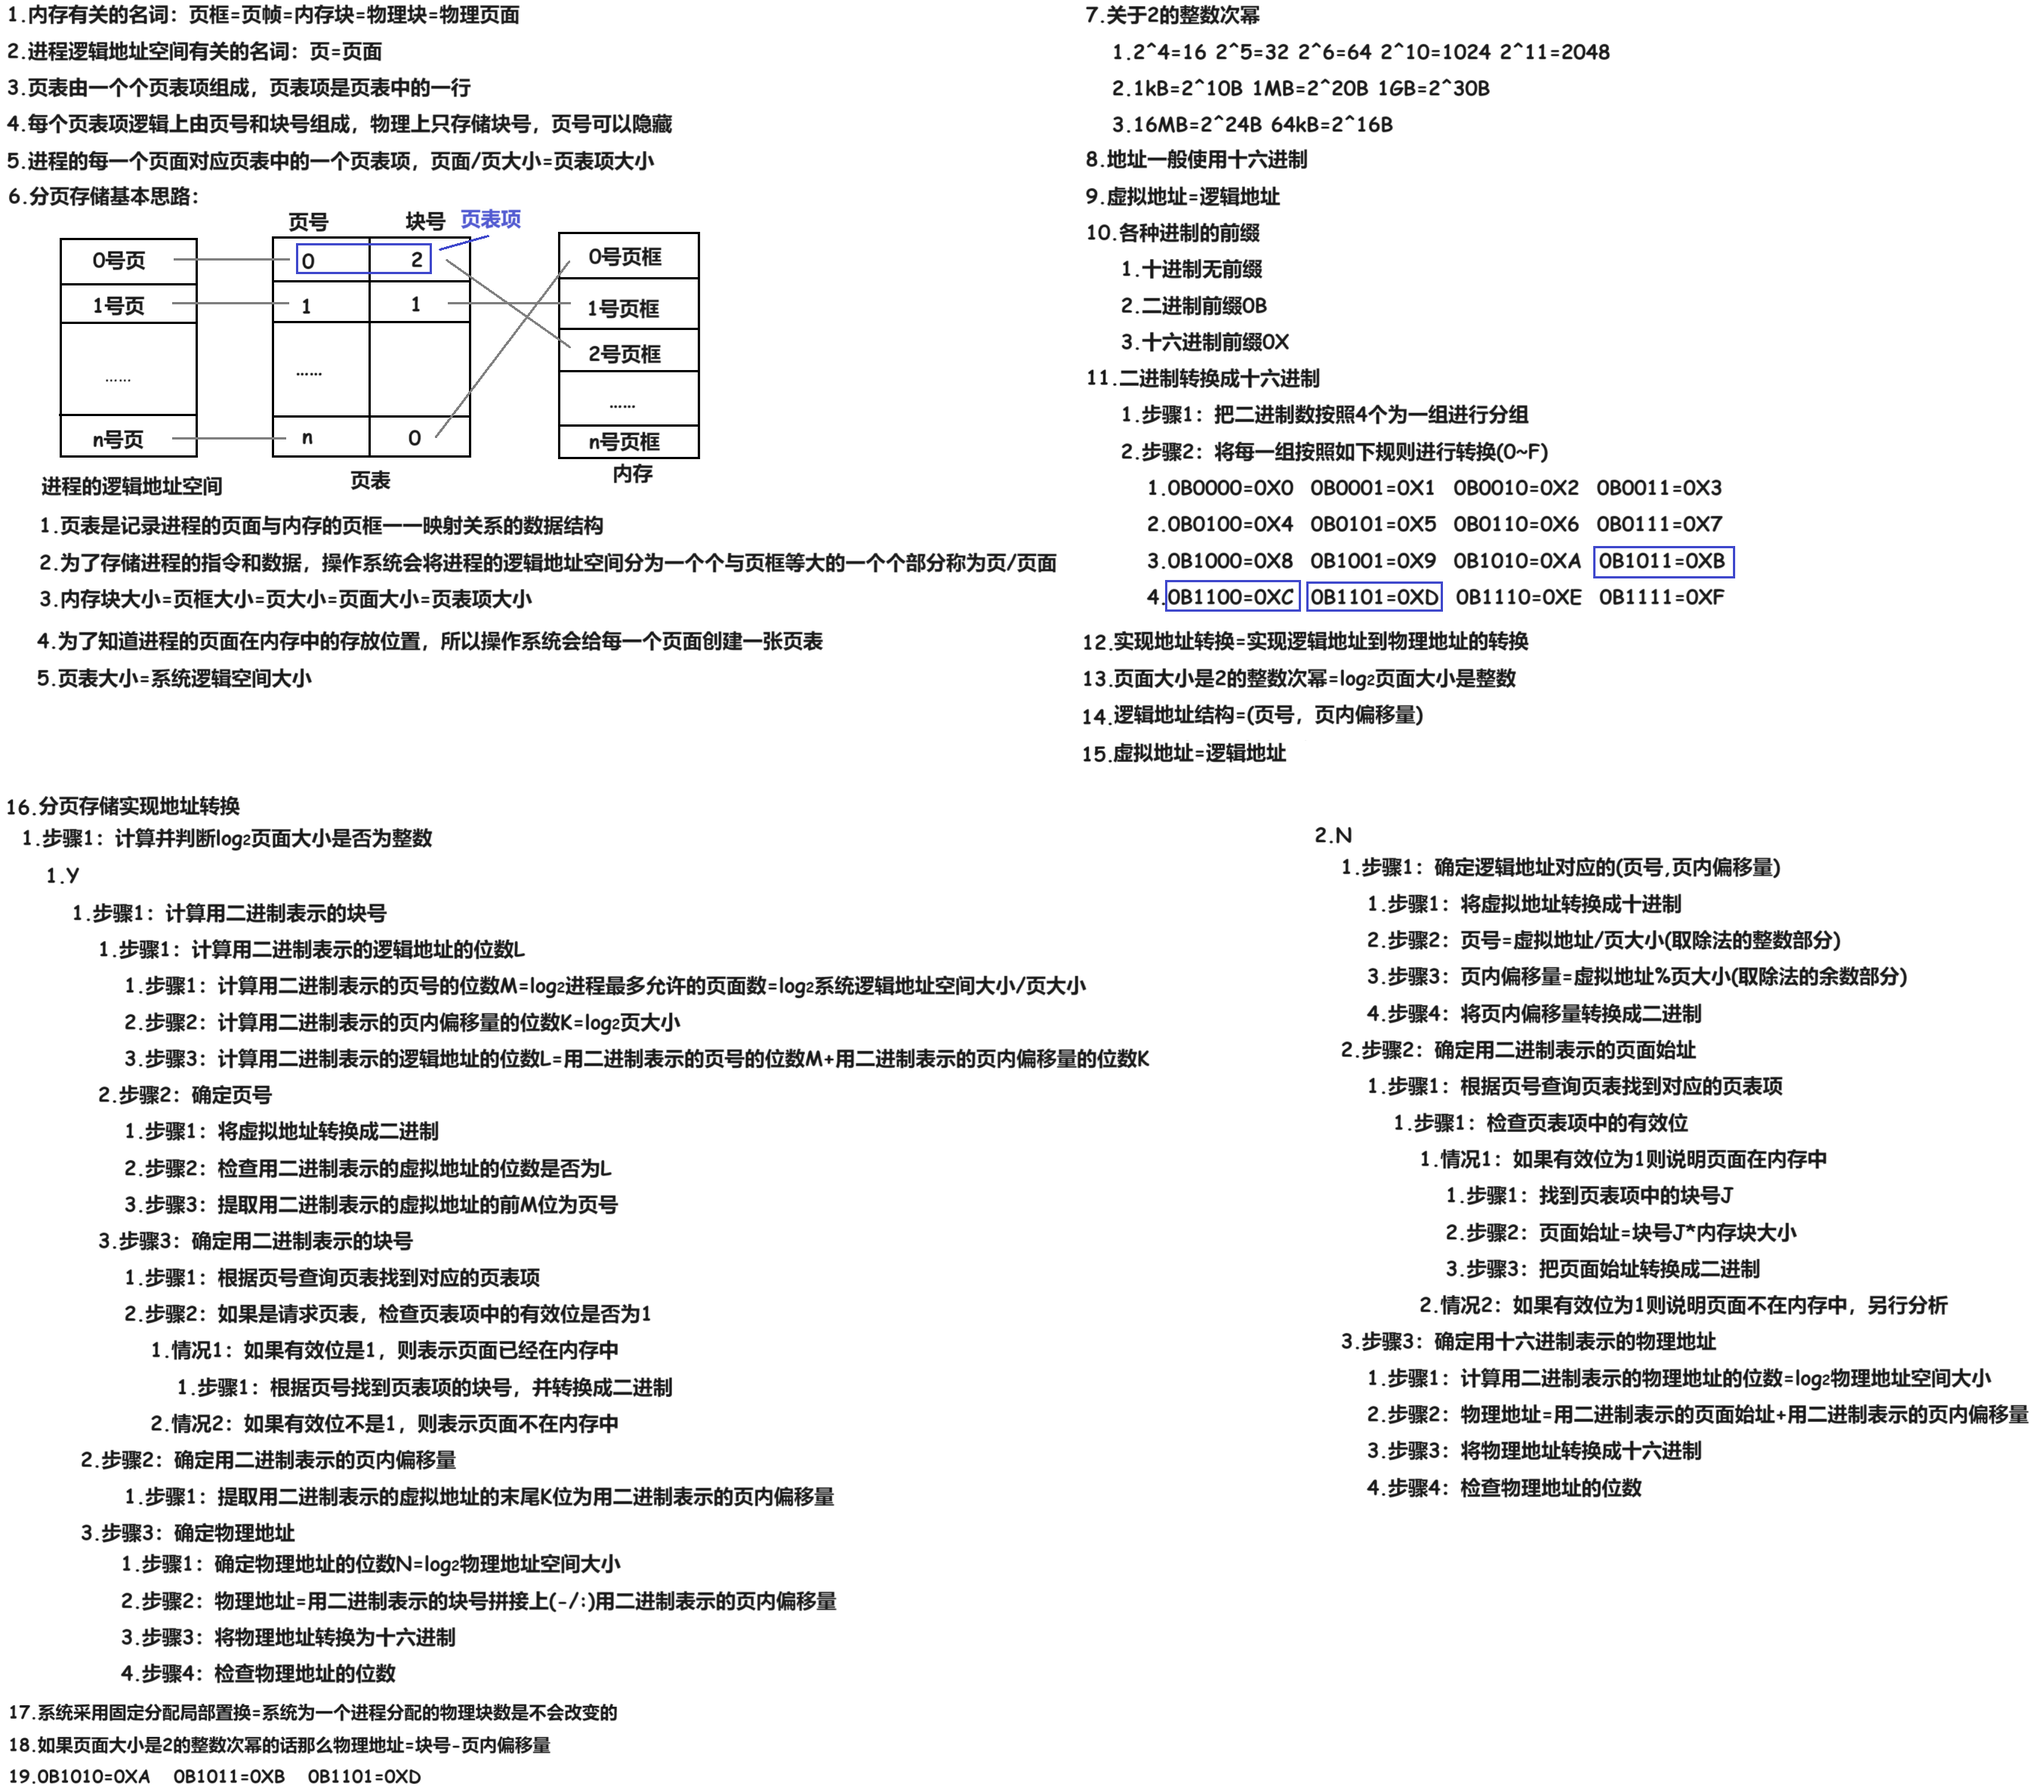
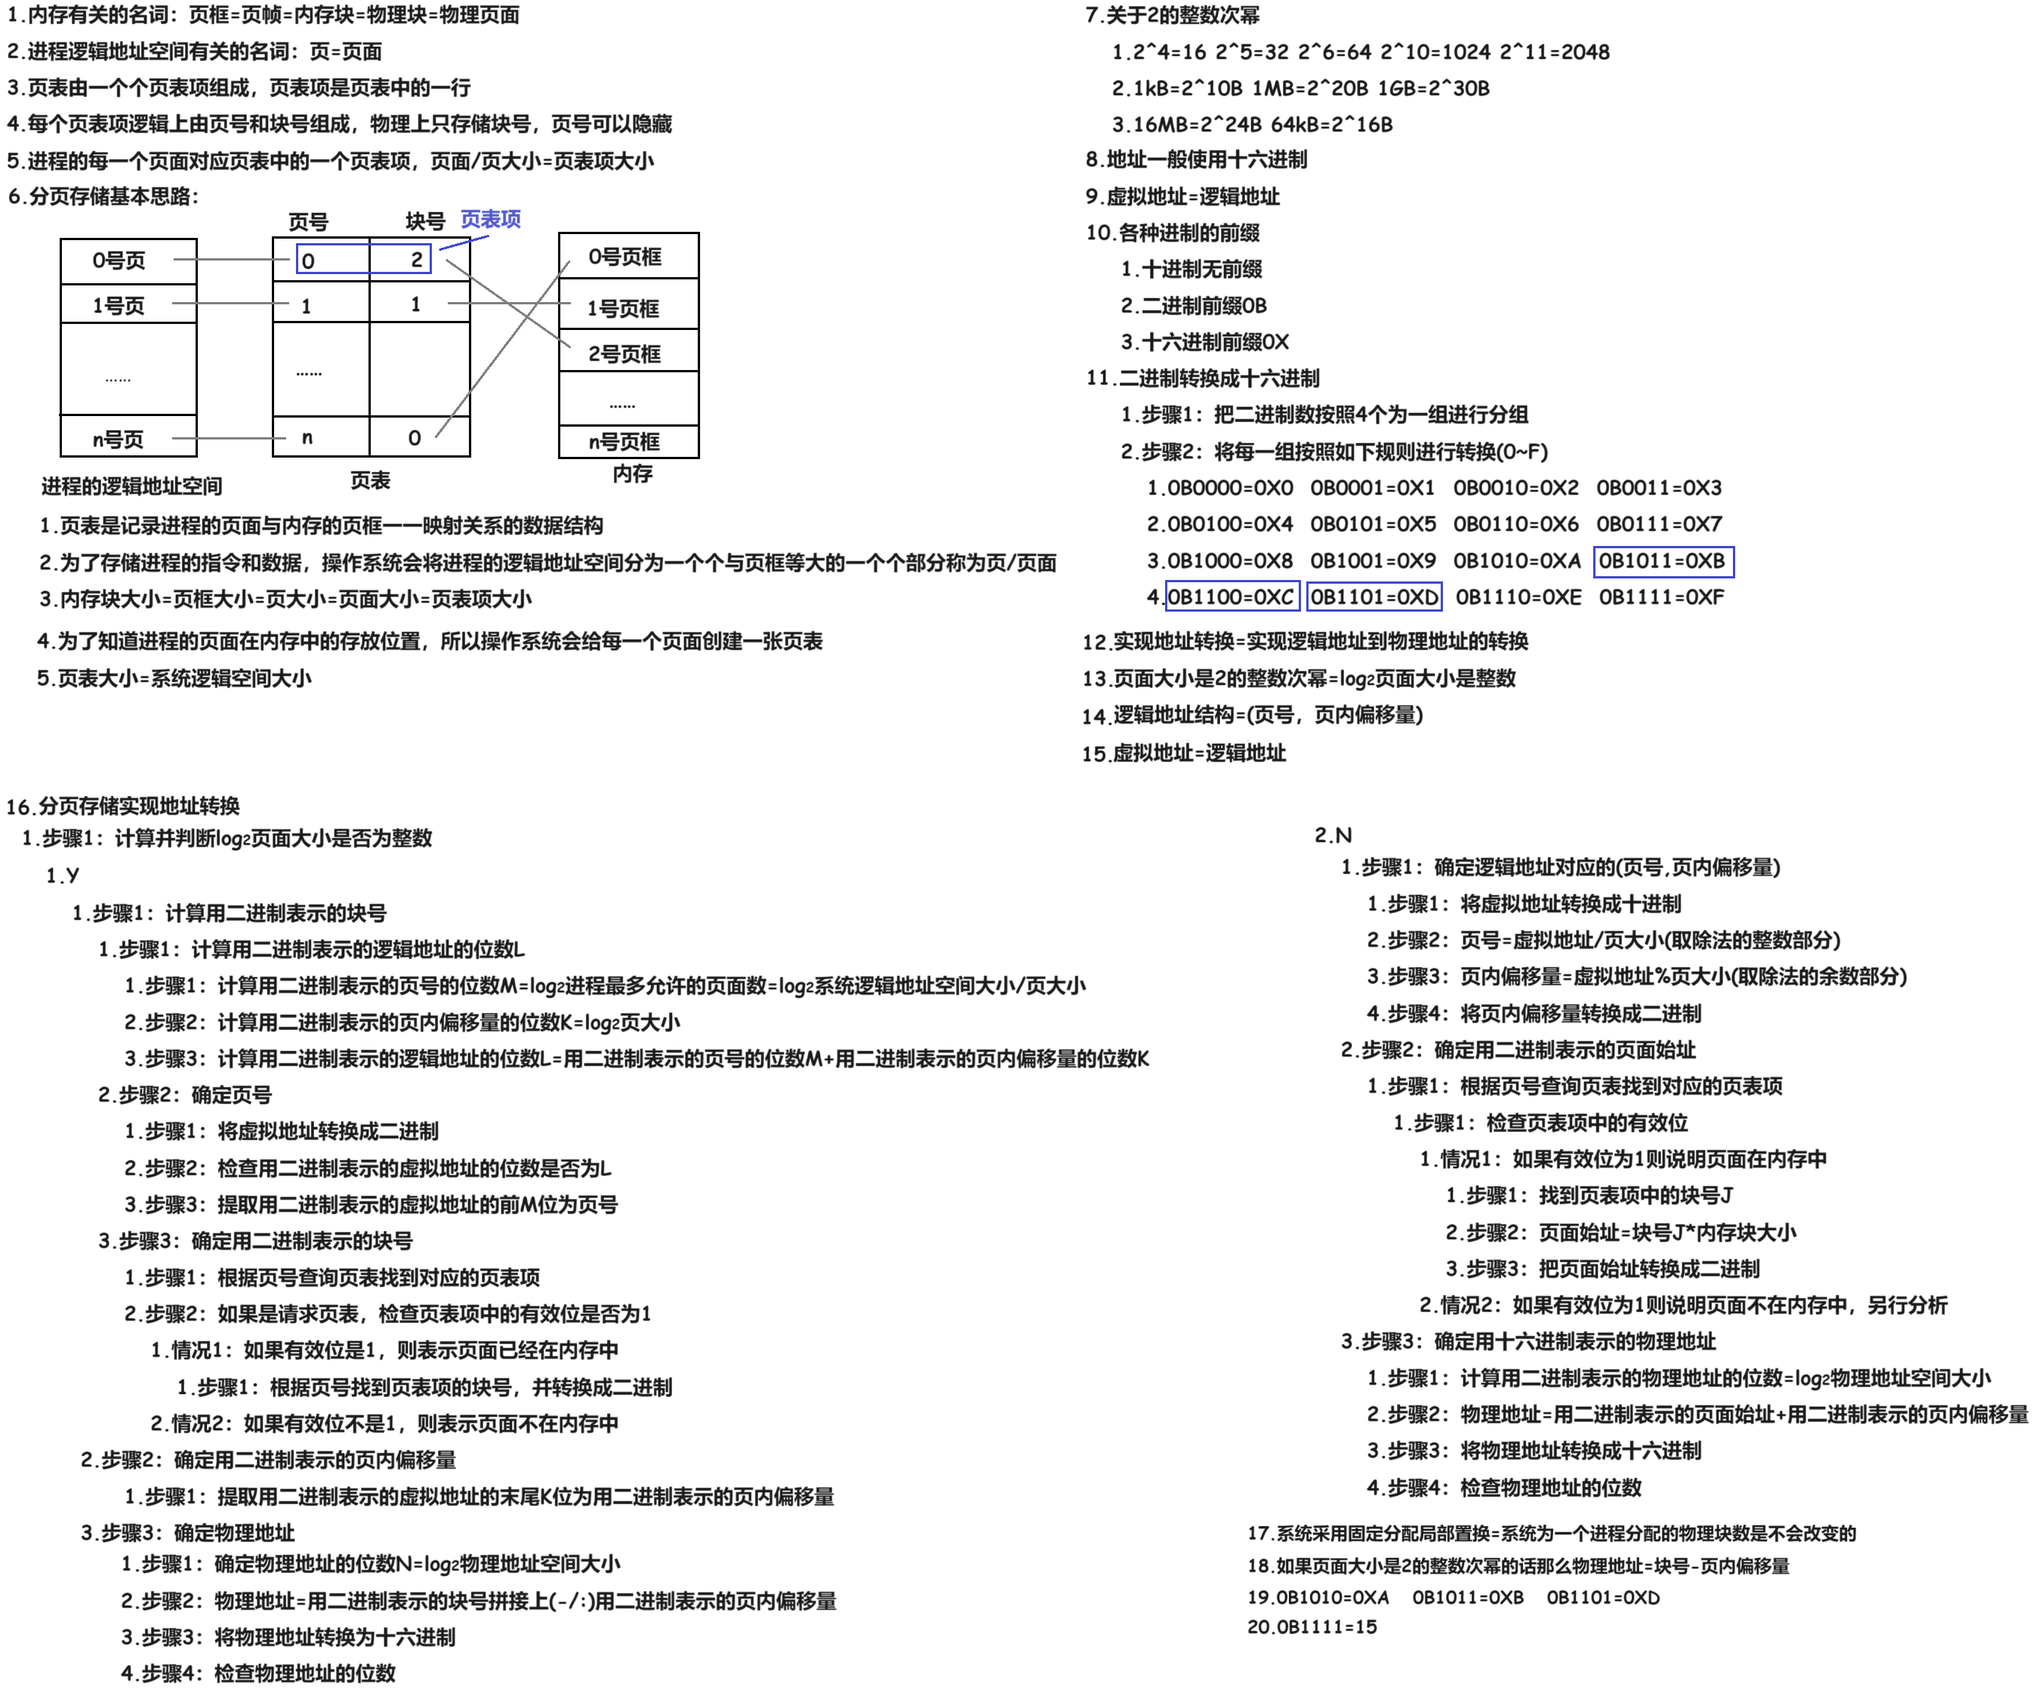
240122

Changed region(s): [[0.0, 0.0, 0.5586, 1.0], [0.6206, 0.4625, 0.993, 0.9866], [0.5275, 0.0, 0.8689, 0.4625]]

diff --git a/04 每日一题/01 820/05 23/01 操作系统部分/03 计算题/03 虚拟内存管理 240121/01 题目/00 总/01 Doc.md b/04 每日一题/01 820/05 23/01 操作系统部分/03 计算题/03 虚拟内存管理 240121/01 题目/00 总/01 Doc.md
@@ -1,6 +1,6 @@
 # 00 背诵
 
-<img src="https://cvp.oss-cn-shanghai.aliyuncs.com/picgo/202401221208138.png" alt="image-20240122120804787" style="zoom:33%;" />
+<img src="https://cvp.oss-cn-shanghai.aliyuncs.com/picgo/202401221211899.png" style="zoom:33%;" />
 
 
 

diff --git a/04 每日一题/01 820/05 23/01 操作系统部分/03 计算题/03 虚拟内存管理 240121/01 题目/03 (4)/01 Doc.md b/04 每日一题/01 820/05 23/01 操作系统部分/03 计算题/03 虚拟内存管理 240121/01 题目/03 (4)/01 Doc.md
@@ -1,6 +1,6 @@
 # 背诵
 
-
+<img src="https://cvp.oss-cn-shanghai.aliyuncs.com/picgo/202401221211990.png" alt="image-20240122121158938" style="zoom: 50%;" />
 
 
 
